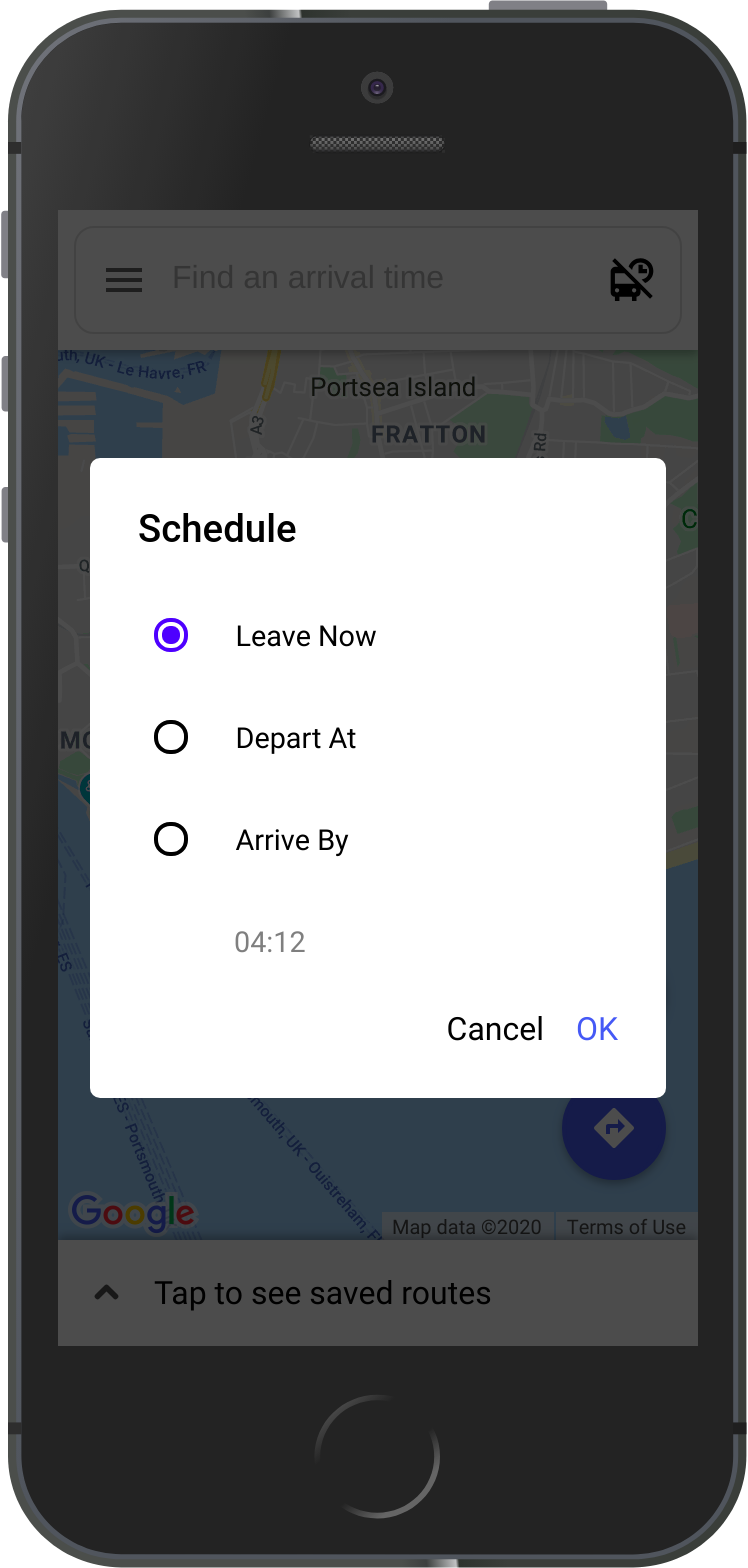
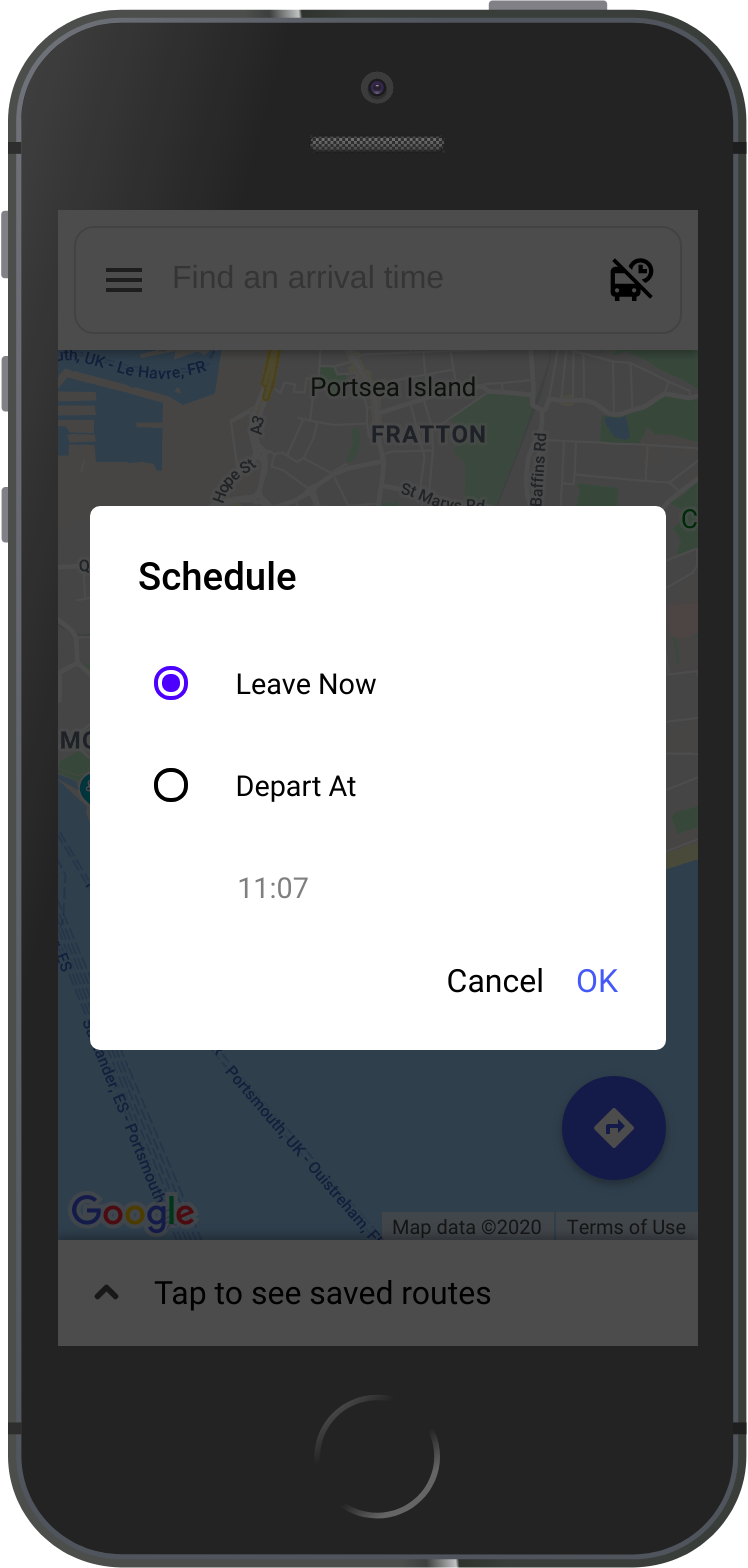
Changed schedule screenshot to reflect arrival time option being removed

Changed region(s): [[0.123, 0.2812, 0.8917, 0.5625], [0.123, 0.625, 0.8917, 0.7188], [0.3075, 0.375, 0.492, 0.625]]

diff --git a/scripts/app.js b/scripts/app.js
@@ -520,7 +520,7 @@ $("schedule-datetime").addEventListener("click", function() {
 		// Update datetime picker here as it will be guarenteed to be correct
 		$("time-hour").value = scheduleDatetime.getUTCHours();
 		let minutes = scheduleDatetime.getUTCMinutes();
-		$("time-minute").value = Math.ceil(minutes/5)*5;
+		$("time-minute").value = (Math.ceil(minutes/5)*5) % 60;
 		$("datetime-modal").style.display = "block";
 	}
 });
@@ -564,6 +564,9 @@ for (let i=0; i<radioButtons.length; i++) {
 		
 		if (this.textContent.trim() == "Leave Now") {
 			$("schedule-datetime").style.color = "rgba(0, 0, 0, 0.5)";
+			let d = new Date();
+			$("schedule-datetime").textContent = d.getUTCHours() + ":" +
+			d.getUTCMinutes().toString().padStart(2, "0");
 		} else {
 			$("schedule-datetime").style.color = "rgba(0, 0, 0, 1)";
 		}
@@ -1066,8 +1069,8 @@ DATETIME MODAL HANDLERS
 
 for (let i=0; i<24; i++)
 	$("time-hour").innerHTML += "<option>" + i + "</option>";
-for (let i=0; i<12; i++)
-	$("time-minute").innerHTML += "<option>" + i*5 + "</option>";
+for (let i=0; i<60; i++)
+	$("time-minute").innerHTML += "<option>" + i + "</option>";
 
 $("datetime-popup-cancel").addEventListener("click", function() {
 	// Go back
